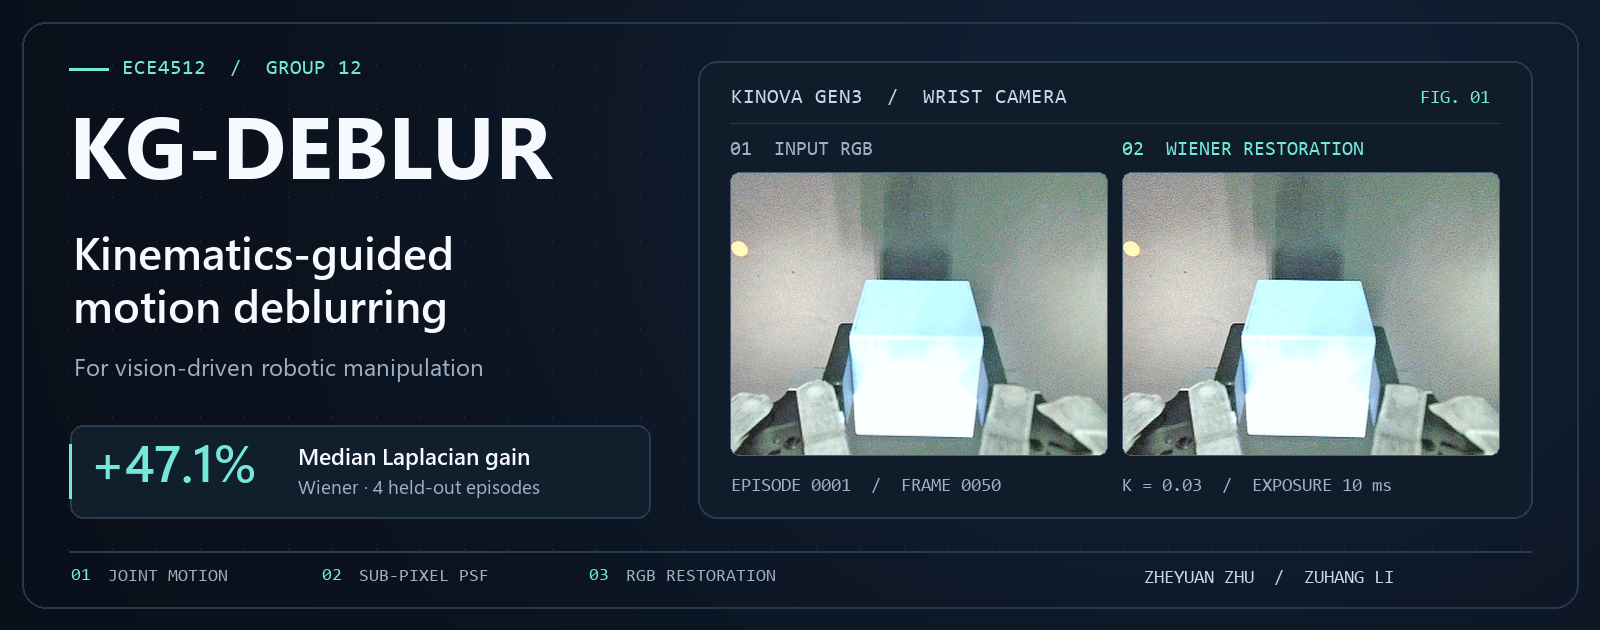
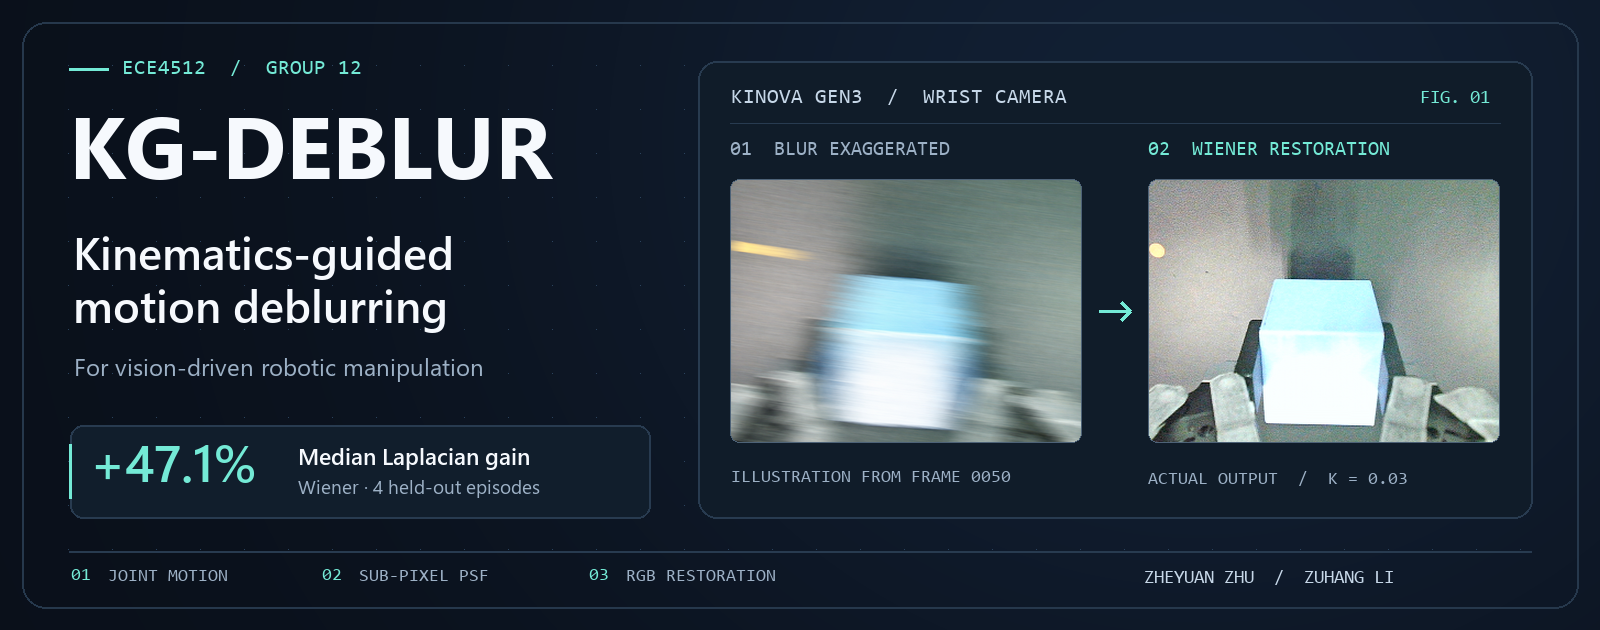
Emphasize motion blur on the project cover

diff --git a/README.md b/README.md
@@ -1,6 +1,7 @@
 <p align="center">
-  <img src="assets/kg-deblur-cover.png" width="100%" alt="KG-DEBLUR: Kinematics-guided motion deblurring. A captured Kinova Gen3 wrist-camera frame is shown beside its Wiener restoration.">
+  <img src="assets/kg-deblur-cover.png" width="100%" alt="KG-DEBLUR cover. An exaggerated motion-blur illustration points to the actual Wiener restoration of the original Kinova Gen3 wrist-camera frame.">
 </p>
+<p align="center"><sub>左图经 AI 强化拖影，用于示意。右图为原始实拍帧的 Wiener 复原结果。</sub></p>
 
 # KG-DEBLUR
 
